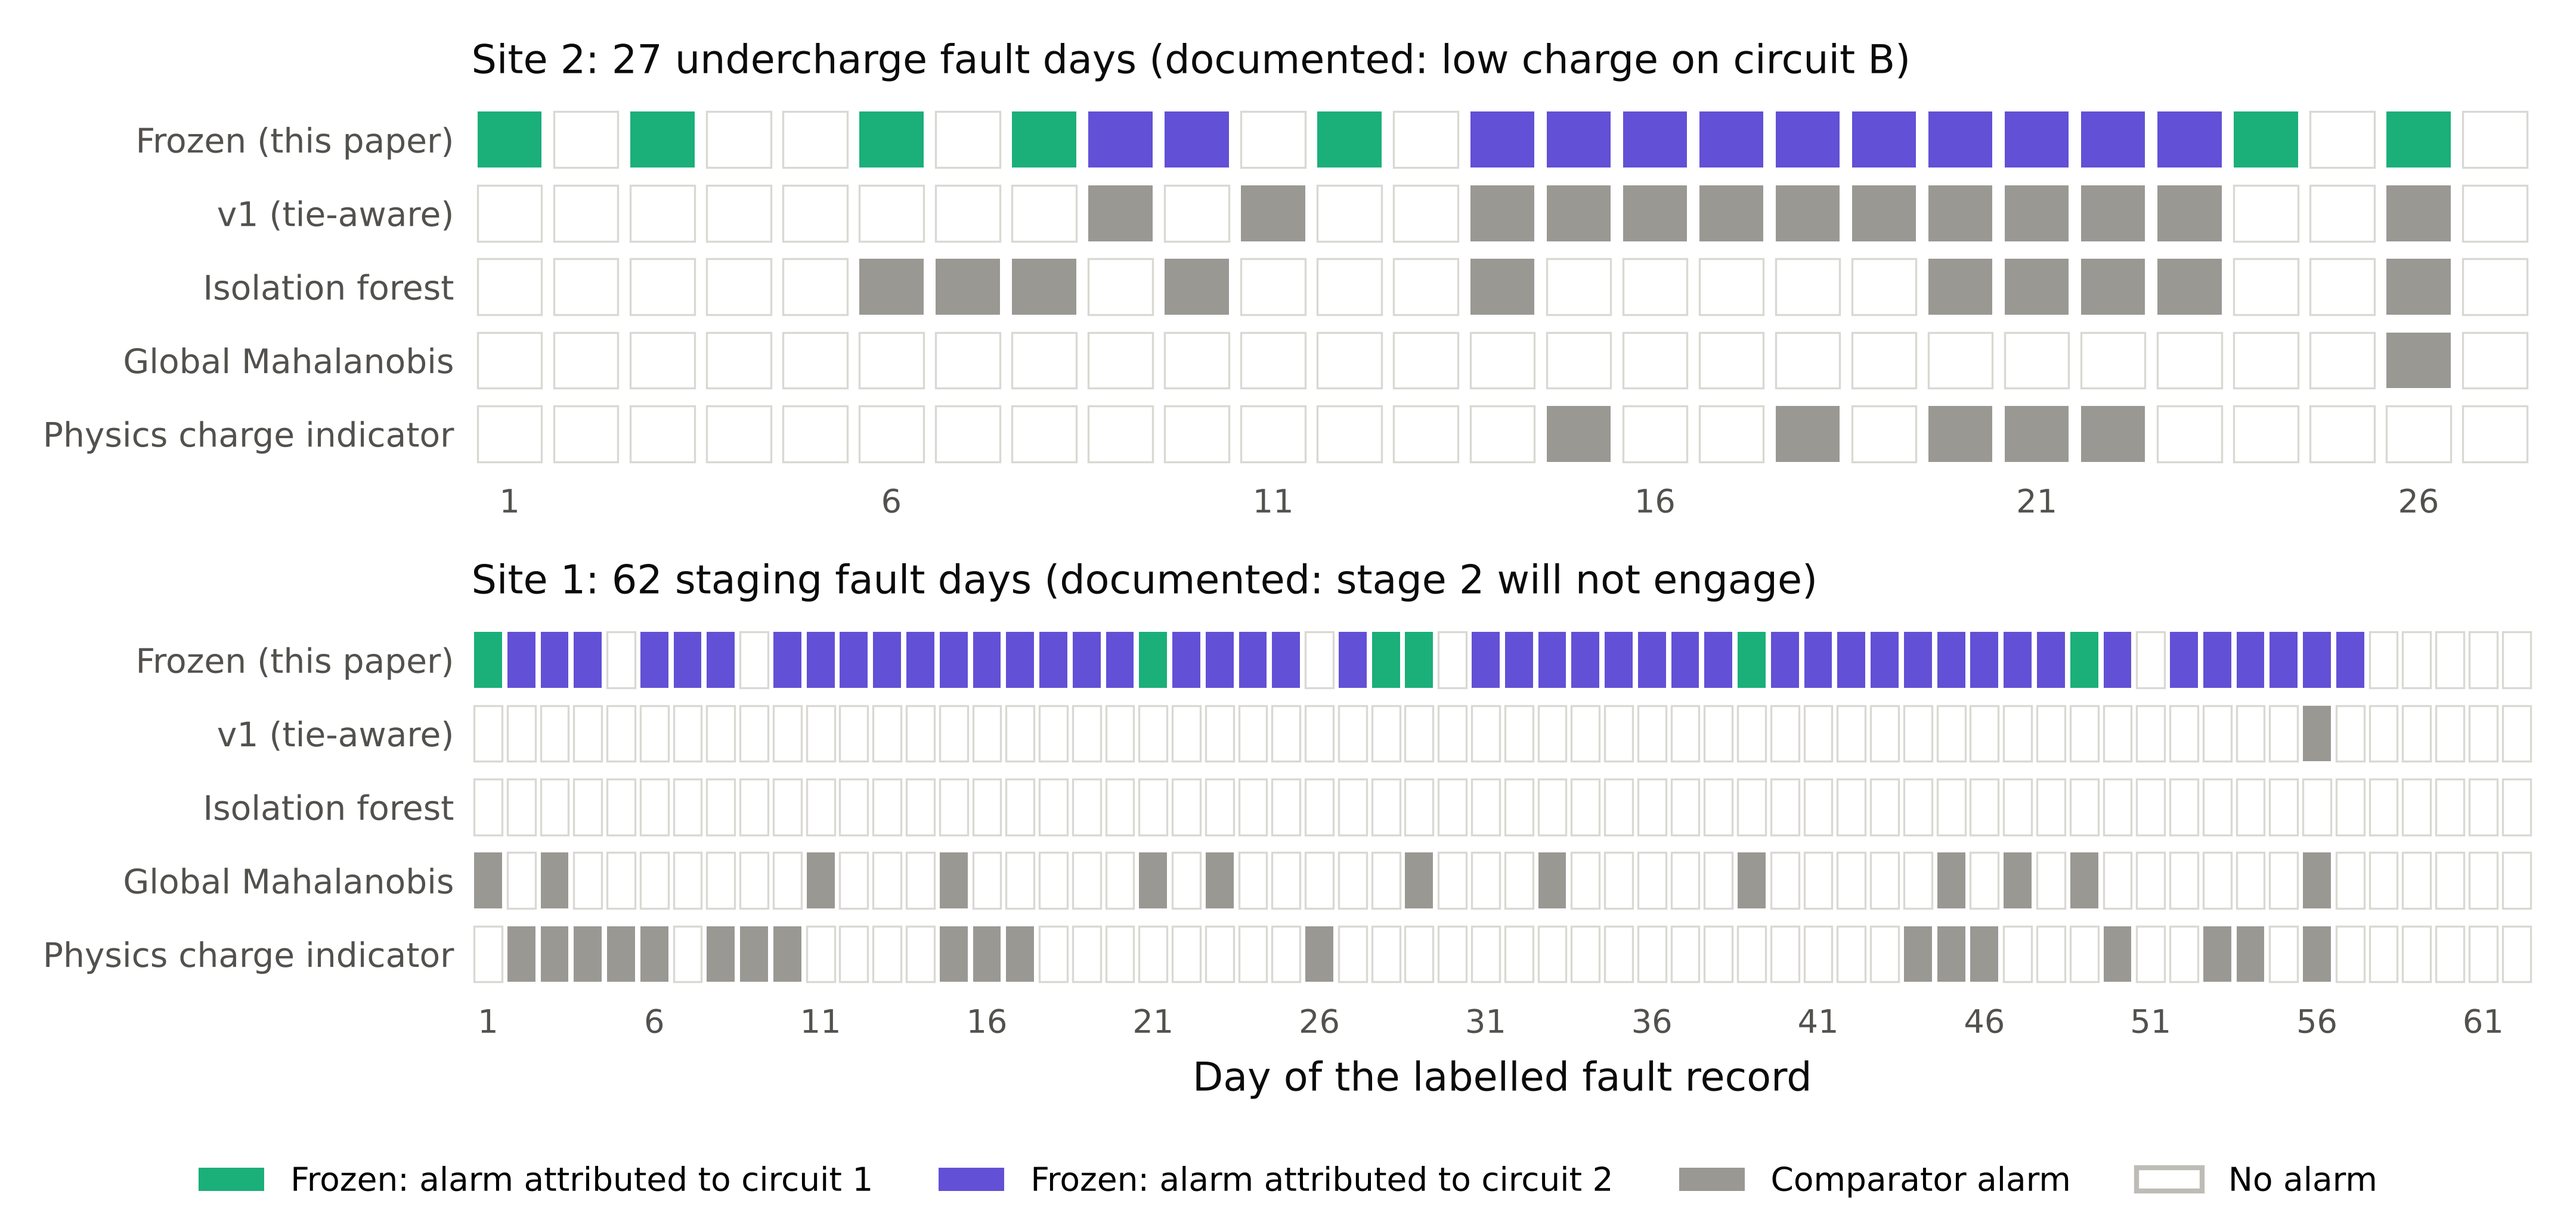
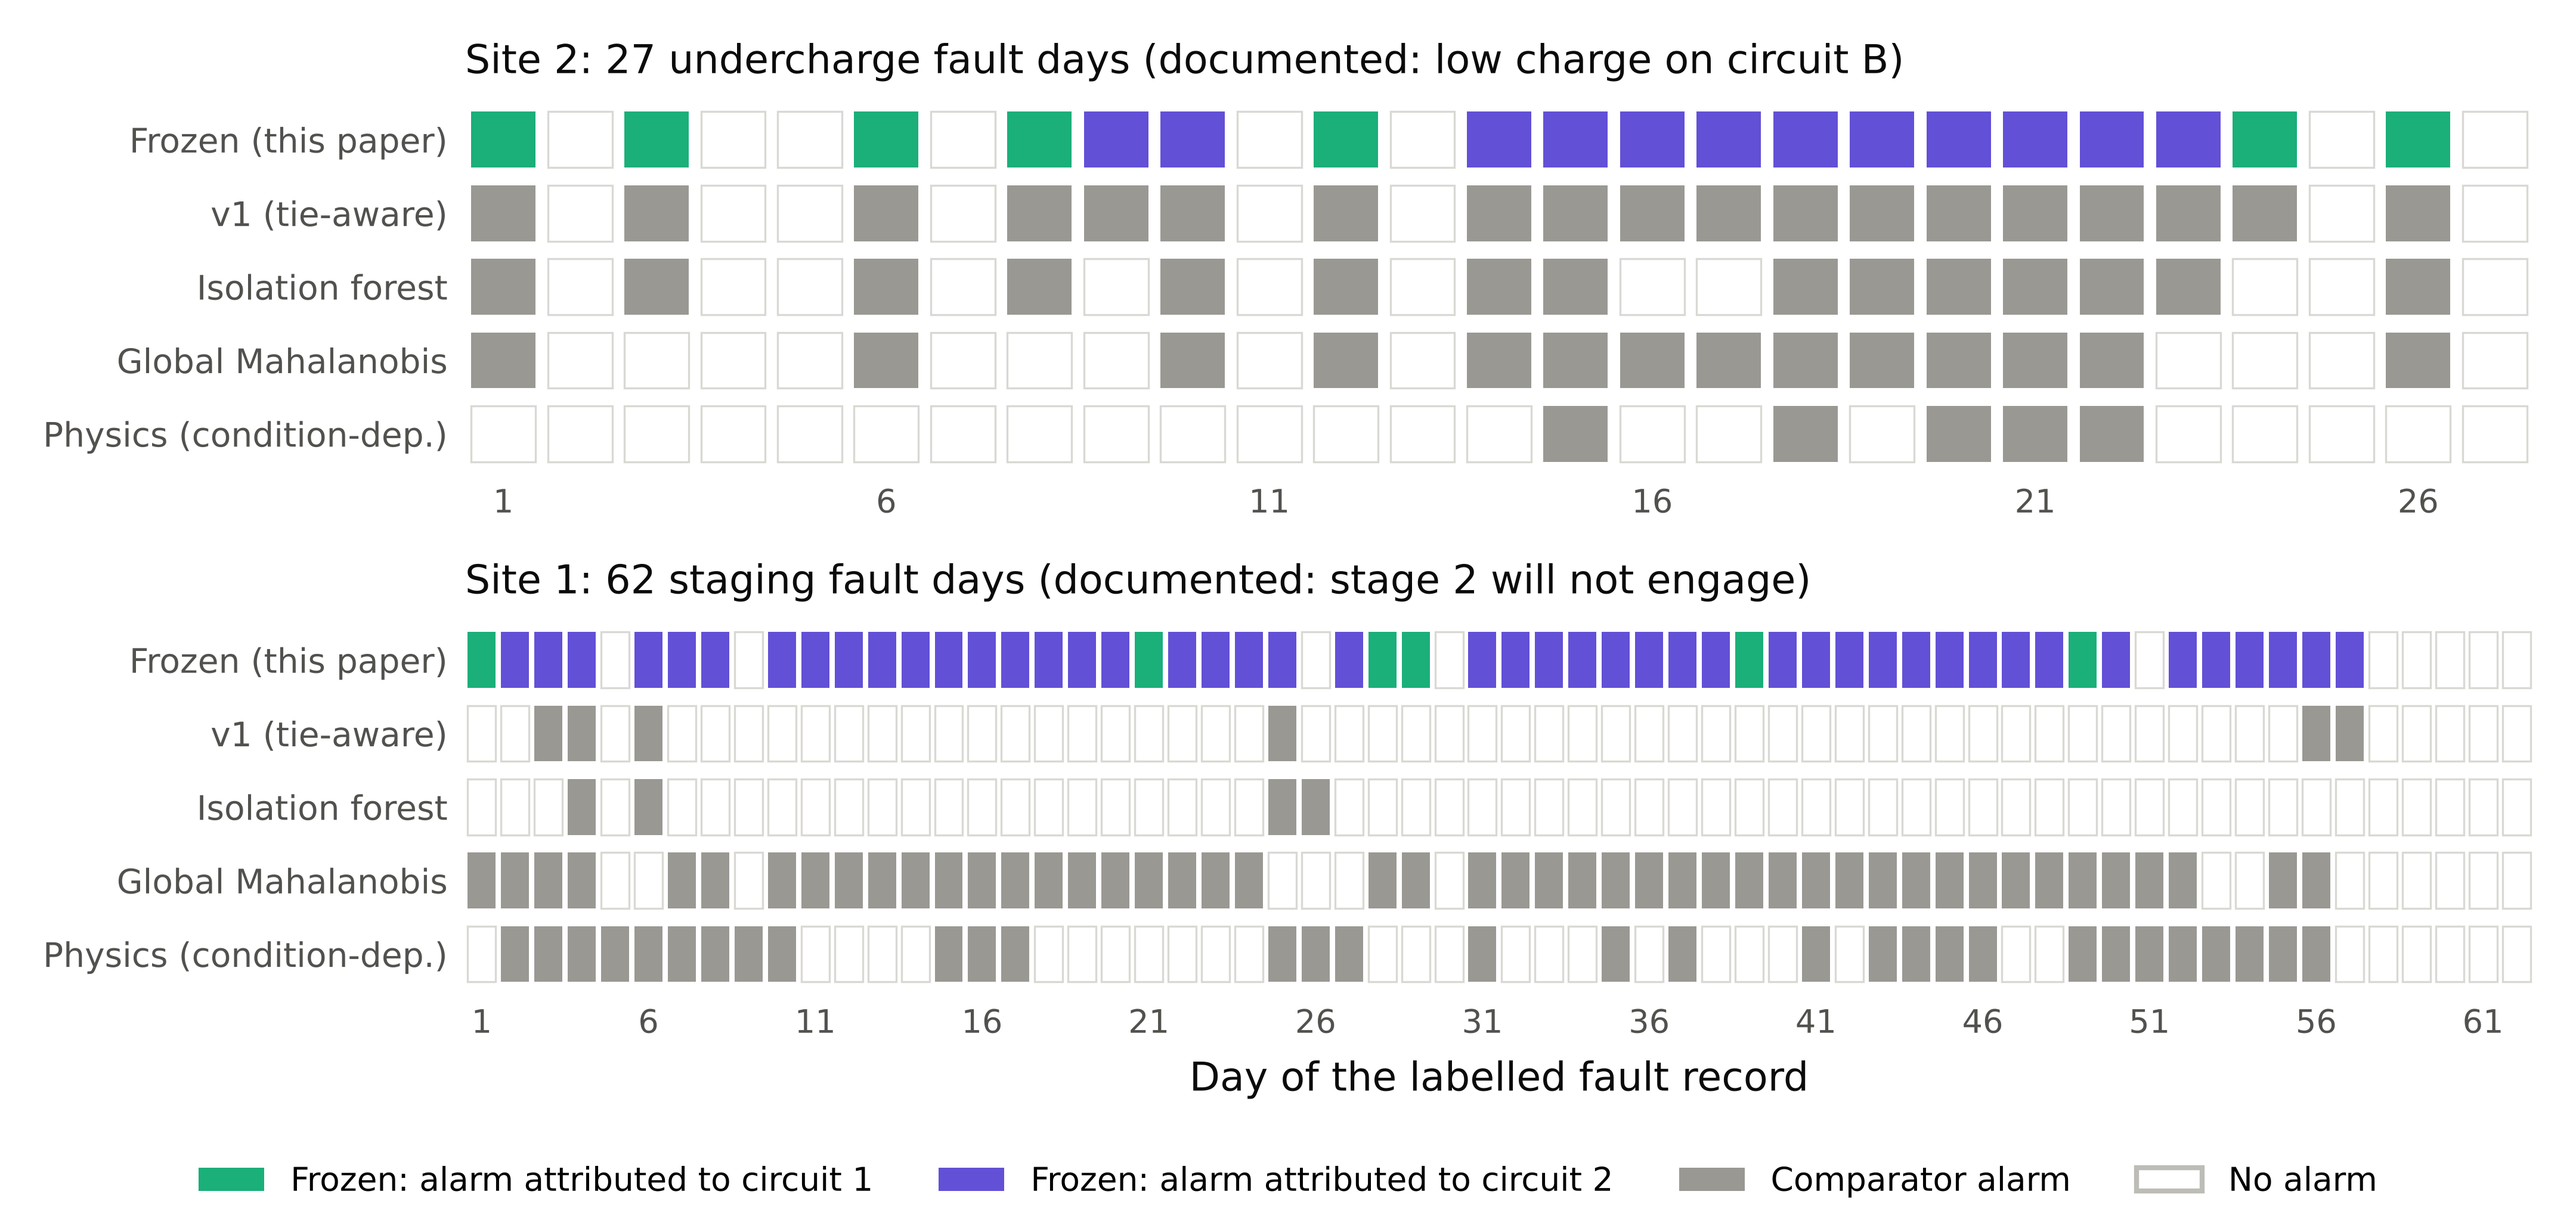
E14 per-day sequences; Figure 4 under the equal rule
Claude-Session: https://claude.ai/code/session_01AATrkp8KJtTjn6DuS7RLP6

diff --git a/experiments/make_figures_phase2.py b/experiments/make_figures_phase2.py
@@ -13,7 +13,7 @@ def cp(k,n):
     lo=0.0 if k==0 else beta.ppf(0.025,k,n-k+1); hi=1.0 if k==n else beta.ppf(0.975,k+1,n-k); return 100*lo,100*hi
 def kn(s): a,b=s.split("/"); return int(a),int(b)
 NAMES={"v2_FROZEN":"Frozen (this paper)","v1_tieaware":"v1 (tie-aware)","v1_tieaware_dual_rule":"v1 (tie-aware)","v1.0.1_original":"v1 (original)","global_Mahalanobis":"Global Mahalanobis",
-       "PCA_T2":"PCA $T^2$","PCA_SPE":"PCA SPE","IsolationForest":"Isolation forest","physics_CI_conformal":"Physics charge indicator"}
+       "PCA_T2":"PCA $T^2$","PCA_SPE":"PCA SPE","IsolationForest":"Isolation forest","physics_CI_conformal":"Physics charge indicator","physics_cond":"Physics (cond.-dependent)"}
 E7=J("e7_e8_paired_operational.json")
 # ---------- Figure 3: operating points, single-maximum rule vs two-statistic rule ----------
 E14=J("e14_equal_budget.json")
@@ -44,8 +44,9 @@ E9=J("e9_attribution.json"); order=["v2_FROZEN","v1_tieaware","IsolationForest",
 fig,axs=plt.subplots(2,1,figsize=(7.2,3.4),gridspec_kw={"height_ratios":[1,1]})
 for ax,s,title in zip(axs,("Site2","Site1"),("Site 2: 27 undercharge fault days (documented: low charge on circuit B)","Site 1: 62 staging fault days (documented: stage 2 will not engage)")):
     op=E7[s]["operational"]; recs=E9[s]["fault_day_records"]; n=len(recs)
+    E14s=E14[s]["comparators_dual_rule"]; MAPR={"v1_tieaware":"v1_tieaware_dual_rule","IsolationForest":"IsolationForest","global_Mahalanobis":"global_Mahalanobis","physics_CI_conformal":"physics_condition_dependent_dual_rule"}
     for r,k in enumerate(order):
-        seq=op[k]["fault_day_alarm_sequence"]; yy=len(order)-1-r
+        seq=op[k]["fault_day_alarm_sequence"] if k=="v2_FROZEN" else E14s[MAPR[k]]["fault_day_alarm_sequence"]; yy=len(order)-1-r
         for d,ch in enumerate(seq):
             if ch!="1": 
                 ax.add_patch(plt.Rectangle((d+0.08,yy+0.12),0.84,0.76,facecolor="none",edgecolor="#d9d8d3",lw=0.4)); continue
@@ -53,7 +54,7 @@ for ax,s,title in zip(axs,("Site2","Site1"),("Site 2: 27 undercharge fault days 
                 rec=recs[d]; st=rec["stat"][0] if len(rec["stat"])==1 else "max"; c=VIOLET if rec[f"circuit_{st}"]==2 else AQUA
             else: c=GREY
             ax.add_patch(plt.Rectangle((d+0.08,yy+0.12),0.84,0.76,facecolor=c,edgecolor="none"))
-    ax.set_xlim(0,n); ax.set_ylim(0,len(order)); ax.set_yticks([len(order)-1-i+0.5 for i in range(len(order))]); ax.set_yticklabels([NAMES[k] for k in order],fontsize=6.8)
+    ax.set_xlim(0,n); ax.set_ylim(0,len(order)); ax.set_yticks([len(order)-1-i+0.5 for i in range(len(order))]); ax.set_yticklabels([("Physics (condition-dep.)" if k=="physics_CI_conformal" else NAMES[k]) for k in order],fontsize=6.8)
     ax.set_xticks(np.arange(0,n,5)+0.5); ax.set_xticklabels(np.arange(1,n+1,5),fontsize=6.5); ax.tick_params(length=0); ax.spines[:].set_visible(False)
     ax.set_title(title,fontsize=8,loc="left",color=INK)
 axs[1].set_xlabel("Day of the labelled fault record")

diff --git a/experiments/e14_equal_budget.py b/experiments/e14_equal_budget.py
@@ -51,7 +51,7 @@ if __name__=="__main__":
      _,sel=identify(TR); ph=PhysRes(TR,CA,sel["refrigerant"],sel["pressure"]); al["physics_condition_dependent_dual_rule"]=(ph.day_alarms_df(TE),ph.day_alarms_df(U))
      rows={}; pf=[]
      for k,(a,b) in al.items():
-         f=P.mcnemar(vu,b); pf.append(f[2]); rows[k]={"test_dayFAR":P.frac(a),"fault_day_sens":P.frac(b),"fault_days_v2_only":f[0],"fault_days_comp_only":f[1],"p_exact":float(f"{f[2]:.3g}"),
+         f=P.mcnemar(vu,b); pf.append(f[2]); rows[k]={"test_dayFAR":P.frac(a),"fault_day_sens":P.frac(b),"fault_day_alarm_sequence":"".join("1" if x else "0" for x in b),"fault_days_v2_only":f[0],"fault_days_comp_only":f[1],"p_exact":float(f"{f[2]:.3g}"),
                 "normal_days_mcnemar_p":float(f"{P.mcnemar(vte,a)[2]:.3g}")}
      for k,h in zip(al,P.holm(pf)): rows[k]["p_holm"]=float(f"{h:.3g}")
      R[s]={"frozen":{"test_dayFAR":P.frac(vte),"fault_day_sens":P.frac(vu)},"comparators_dual_rule":rows}
